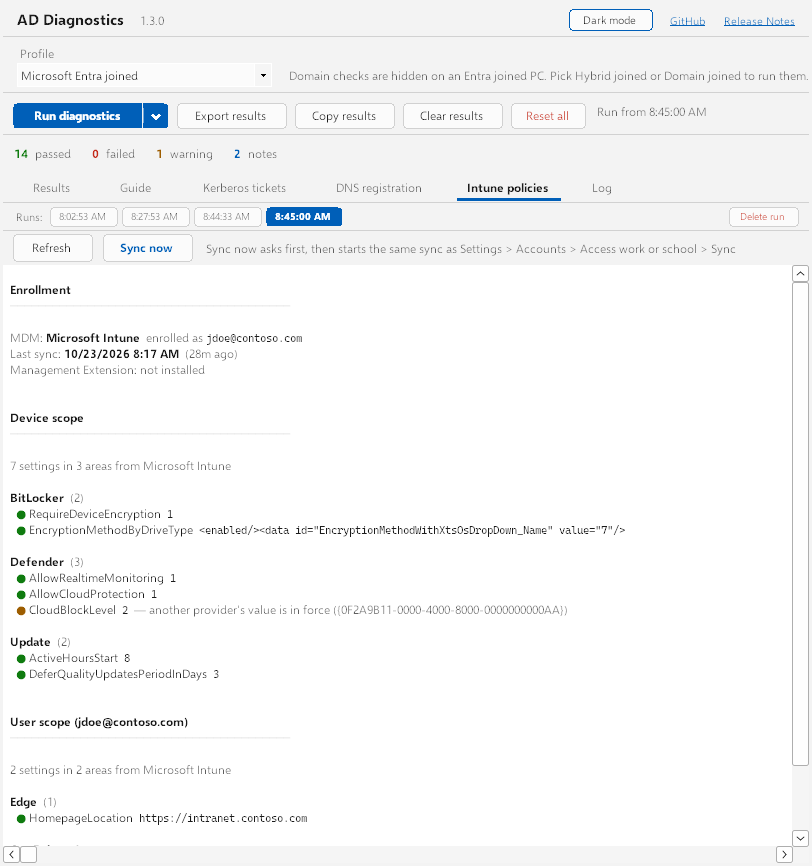
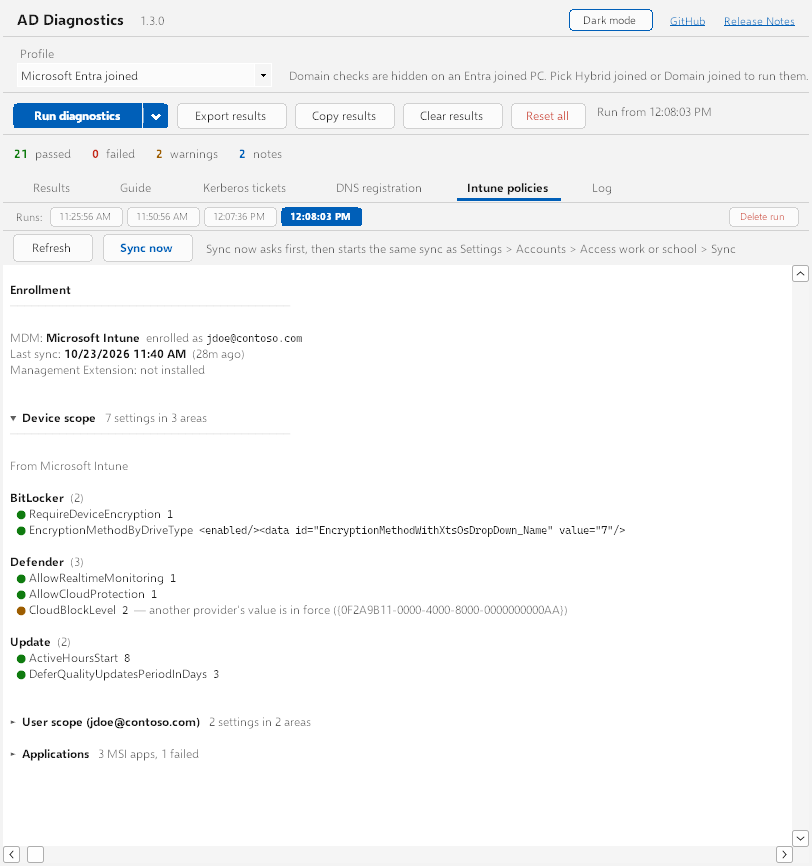
fix: fold Intune tab sections, count apps in Device Policies
Device scope, User scope and Applications start folded to their title
and count, like the Guide and Log. Device Policies counts the MSI apps
Settings lists beside the policy areas and warns when one failed.
Registering Adapters names the client adapter whose address isn't
registered, so it no longer reads as if the first adapter's were off.

Claude-Session: https://claude.ai/code/session_01StQ2E6eUGyYwvDP9ytbP5z

diff --git a/MainForm.cs b/MainForm.cs
@@ -109,6 +109,9 @@ class MainForm : Form
     // Intune policies tab
     Panel _intunePanel = null!;
     RichTextBox _intuneBox = null!;
+    readonly List<(int Start, int End, string Key)> _intuneHeadings = []; // where each folding section's title sits
+    readonly HashSet<string> _intuneOpen = [];          // the sections the reader opened; all start folded
+    IntuneState? _intuneState;                          // what the tab shows, redrawn when a section folds
     ThemedButton _btnIntuneSync = null!;
     Label _lblIntuneNote = null!;
     bool _intuneRunning, _intuneLoaded;
@@ -524,6 +527,20 @@ class MainForm : Form
             Font = new Font("Segoe UI", 9.5f),
             ScrollBars = RichTextBoxScrollBars.ForcedVertical,
             DetectUrls = false, // policy values are text to read, not links
+        };
+        _intuneBox.MouseClick += (s, e) =>
+        {
+            if (e.Button == MouseButtons.Left && IntuneHeadingAt(_intuneBox.GetCharIndexFromPosition(e.Location)) is { } key) ToggleIntuneSection(key);
+        };
+        _intuneBox.MouseMove += (s, e) =>
+            _intuneBox.Cursor = IntuneHeadingAt(_intuneBox.GetCharIndexFromPosition(e.Location)) != null ? Cursors.Hand : Cursors.IBeam;
+        _intuneBox.KeyDown += (s, e) =>
+        {
+            if (e.KeyCode is Keys.Enter or Keys.Space && IntuneHeadingAt(_intuneBox.SelectionStart) is { } key)
+            {
+                ToggleIntuneSection(key);
+                e.Handled = e.SuppressKeyPress = true;
+            }
         };
         var btnIntuneRefresh = new ThemedButton { Text = "Refresh", BackColor = SurfaceColor, ForeColor = TextColor, FlatStyle = FlatStyle.Flat, Font = new Font("Segoe UI", 9f), Size = new Size(80, 28), Location = new Point(10, 3) };
         btnIntuneRefresh.Click += (s, e) => RefreshIntuneTab();
@@ -1227,7 +1244,7 @@ class MainForm : Form
                 "  Fix: Click Sync now on the Intune policies tab, or Sync in Settings > Accounts > Access work or school > Info. If it fails, read the DeviceManagement-Enterprise-Diagnostics-Provider log, and check that the PC reaches *.manage.microsoft.com without TLS inspection\n\n" +
                 "• Management Extension — the Intune Management Extension service, which installs Win32 apps and runs scripts and remediations. Not installed is Info: Intune adds it with the first such assignment\n" +
                 "  Fix: If it is stopped, start the 'Microsoft Intune Management Extension' service. If it won't stay running, read its logs in C:\\ProgramData\\Microsoft\\IntuneManagementExtension\\Logs\n\n" +
-                "• Device Policies — how many settings Intune pushed to the device are in force; a setting another provider (another MDM, a provisioning package) sets instead is counted separately\n" +
+                "• Device Policies — how many settings Intune pushed to the device are in force, and how many MSI apps it pushed; a setting another provider (another MDM, a provisioning package) sets instead is counted separately, and an app that failed to download or install warns\n" +
                 "  Fix: None arriving: check the device's and user's group assignments in the Intune admin center, then sync"),
         };
 
@@ -1480,6 +1497,8 @@ class MainForm : Form
         _intuneRunning = _intuneLoaded = true;
         DiagLog.Block = new LogBlock($"Intune policies {Clock(DateTime.Now)}", "MDM enrollment and policy settings from the registry");
         _intuneBox.Clear();
+        _intuneHeadings.Clear();
+        _intuneState = null;
         AppendIntuneLine("Loading Intune details...\n", DimColor);
 
         (MdmEnrollment? Enrollment, IntuneState? State, string? Error) read;
@@ -1526,8 +1545,41 @@ class MainForm : Form
         AppendIntuneLine("  ────────────────────────────────────────\n\n", BorderColor);
     }
 
+    // A section that folds to its title and summary, chevron down when open and right when folded; true when open
+    bool IntuneFoldSection(string key, string title, string summary)
+    {
+        bool open = _intuneOpen.Contains(key);
+        int start = _intuneBox.TextLength;
+        AppendIntuneLine("  ", TextColor);
+        AppendIntuneLine(open ? "\u25BC " : "\u25BA ", DimColor, mono: true);
+        AppendIntuneLine(title, TextColor, bold: true);
+        AppendIntuneLine($"   {summary}", DimColor);
+        _intuneHeadings.Add((start, _intuneBox.TextLength, key));
+        AppendIntuneLine(open ? "\n  ────────────────────────────────────────\n\n" : "\n\n", open ? BorderColor : TextColor);
+        return open;
+    }
+
+    string? IntuneHeadingAt(int charIndex) =>
+        _intuneHeadings.FirstOrDefault(h => charIndex >= h.Start && charIndex <= h.End).Key;
+
+    // Folds or opens a section and keeps its title where it was on screen
+    void ToggleIntuneSection(string key)
+    {
+        if (_intuneState is not { } state) return;
+        if (!_intuneOpen.Remove(key)) _intuneOpen.Add(key);
+        int top = _intuneBox.GetLineFromCharIndex(_intuneBox.GetCharIndexFromPosition(new Point(1, 1)));
+        _intuneBox.Clear();
+        RenderIntune(state);
+        _intuneBox.SelectionStart = _intuneHeadings.FirstOrDefault(h => h.Key == key).Start;
+        _intuneBox.SelectionLength = 0;
+        int now = _intuneBox.GetLineFromCharIndex(_intuneBox.GetCharIndexFromPosition(new Point(1, 1)));
+        if (top != now) SendMessage(_intuneBox.Handle, EmLineScroll, IntPtr.Zero, top - now);
+    }
+
     void RenderIntune(IntuneState s)
     {
+        _intuneState = s;
+        _intuneHeadings.Clear();
         RenderIntuneEnrollment(s);
         var e = s.Enrollment;
         if (s.PolicyError != null)
@@ -1537,8 +1589,8 @@ class MainForm : Form
         }
         else
         {
-            RenderIntuneScope("Device scope", s.Device, e.ProviderName);
-            RenderIntuneScope(e.Upn is { Length: > 0 } user ? $"User scope ({user})" : "User scope", s.User, e.ProviderName);
+            RenderIntuneScope("device", "Device scope", s.Device, e.ProviderName);
+            RenderIntuneScope("user", e.Upn is { Length: > 0 } user ? $"User scope ({user})" : "User scope", s.User, e.ProviderName);
         }
         RenderIntuneApps(s, e.ProviderName);
     }
@@ -1546,18 +1598,17 @@ class MainForm : Form
     // The MSI apps the MDM pushed, as Settings > Access work or school > Info lists them under Applications
     void RenderIntuneApps(IntuneState s, string provider)
     {
-        IntuneSection("Applications");
         if (s.AppsError != null)
         {
+            IntuneSection("Applications");
             AppendIntuneLine($"  Not read: {s.AppsError}\n", WarnColor);
             return;
         }
-        if (s.Apps.Count == 0)
-        {
-            AppendIntuneLine($"    No MSI apps from {provider}\n", DimColor);
-            return;
-        }
-        AppendIntuneLine($"  {s.Apps.Count} MSI app{(s.Apps.Count == 1 ? "" : "s")} from {provider}\n\n", DimColor);
+        int failed = s.Apps.Count(a => Diagnostics.MsiStatus(a.Status).Look == Status.Fail);
+        string summary = s.Apps.Count == 0 ? $"no MSI apps from {provider}"
+            : $"{s.Apps.Count} MSI app{(s.Apps.Count == 1 ? "" : "s")}{(failed > 0 ? $", {failed} failed" : "")}";
+        if (!IntuneFoldSection("apps", "Applications", summary) || s.Apps.Count == 0) return;
+        AppendIntuneLine($"  From {provider}\n\n", DimColor);
         foreach (var app in s.Apps)
         {
             var (text, look) = Diagnostics.MsiStatus(app.Status);
@@ -1632,16 +1683,13 @@ class MainForm : Form
             var other => ($"state {other}", TextColor),
         };
 
-    void RenderIntuneScope(string title, List<MdmSetting> settings, string provider)
+    void RenderIntuneScope(string key, string title, List<MdmSetting> settings, string provider)
     {
-        IntuneSection(title);
-        if (settings.Count == 0)
-        {
-            AppendIntuneLine($"    None from {provider}\n\n\n", DimColor);
-            return;
-        }
         var areas = settings.GroupBy(x => x.Area).ToList();
-        AppendIntuneLine($"  {settings.Count} setting{(settings.Count == 1 ? "" : "s")} in {areas.Count} area{(areas.Count == 1 ? "" : "s")} from {provider}\n", DimColor);
+        string summary = settings.Count == 0 ? $"none from {provider}"
+            : $"{settings.Count} setting{(settings.Count == 1 ? "" : "s")} in {areas.Count} area{(areas.Count == 1 ? "" : "s")}";
+        if (!IntuneFoldSection(key, title, summary) || settings.Count == 0) return;
+        AppendIntuneLine($"  From {provider}\n", DimColor);
         foreach (var area in areas)
         {
             AppendIntuneLine($"\n  {area.Key}", TextColor, bold: true);

diff --git a/Intune.cs b/Intune.cs
@@ -97,16 +97,25 @@ static partial class Diagnostics
     {
         if (s.PolicyError is { } error)
             return new(MdmPoliciesCheck, Status.Skip, $"Not checked: {error}") { NeedsAdmin = true };
+        string apps = AppsSummary(s);
+        var failed = s.Apps.Where(a => MsiStatus(a.Status).Look == Status.Fail).ToList();
+        string failures = failed.Count == 0 ? ""
+            : $"; failed: {string.Join(", ", failed.Select(a => $"{a.Name ?? a.ProductCode} ({MsiStatus(a.Status).Text.ToLowerInvariant()})"))}";
         var won = s.Device.Where(p => p.ProviderWins).ToList();
         if (s.Device.Count == 0)
-            return new(MdmPoliciesCheck, Status.Info, "No device settings from Intune yet");
+            return new(MdmPoliciesCheck, failed.Count > 0 ? Status.Warn : Status.Info, $"No device settings from Intune yet{apps}{failures}");
 
         var areas = won.Select(p => p.Area).Distinct().ToList();
         string list = areas.Count == 0 ? "" : $" ({string.Join(", ", areas.Take(3))}{(areas.Count > 3 ? ", ..." : "")})";
         int lost = s.Device.Count - won.Count;
         string overridden = lost > 0 ? $"; {lost} set by another provider instead" : "";
-        return new(MdmPoliciesCheck, Status.Pass, $"{won.Count} setting{(won.Count == 1 ? "" : "s")} from {s.Enrollment.ProviderName} in {areas.Count} area{(areas.Count == 1 ? "" : "s")}{list}{overridden}");
+        return new(MdmPoliciesCheck, failed.Count > 0 ? Status.Warn : Status.Pass,
+            $"{won.Count} setting{(won.Count == 1 ? "" : "s")} from {s.Enrollment.ProviderName} in {areas.Count} area{(areas.Count == 1 ? "" : "s")}{list}{overridden}{apps}{failures}");
     }
+
+    // The MSI apps, as Settings counts them beside the policy areas; empty when there are none or they weren't read
+    static string AppsSummary(IntuneState s) =>
+        s.AppsError != null ? "; apps not read" : s.Apps.Count == 0 ? "" : $"; {s.Apps.Count} MSI app{(s.Apps.Count == 1 ? "" : "s")}";
 
     /// <summary>
     /// The MDM enrollment Windows keeps under HKLM\SOFTWARE\Microsoft\Enrollments, preferring a completed Intune one;

diff --git a/DnsRegistration.cs b/DnsRegistration.cs
@@ -131,8 +131,10 @@ static partial class Diagnostics
 
     // Routable addresses on a client's adapter that Windows will not put in DNS, as that adapter has registration off
     static IPAddress[] UnregisteredClientAddresses(List<NetAdapter> adapters, string? tag) =>
-        ClientAdapters(adapters, tag).Where(c => !c.Adapter.RegistersInDns)
-            .SelectMany(c => c.Adapter.Addresses).Where(a => IsRegistrable(a) && !IsCgnat(a)).Distinct().ToArray();
+        UnregisteredClients(adapters, tag).SelectMany(a => a.Addresses).Where(a => IsRegistrable(a) && !IsCgnat(a)).Distinct().ToArray();
+
+    static List<NetAdapter> UnregisteredClients(List<NetAdapter> adapters, string? tag) =>
+        ClientAdapters(adapters, tag).Where(c => !c.Adapter.RegistersInDns).Select(c => c.Adapter).ToList();
 
     // The addresses this machine would register: those of connected adapters with DNS registration on
     static IPAddress[] RegisteringAddresses(List<NetAdapter> adapters) =>
@@ -357,8 +359,11 @@ static partial class Diagnostics
         if (ztna == null)
             return new(RegAdapters, Status.Pass, list);
         if (UnregisteredClientAddresses(adapters, tag) is { Length: > 0 } unregistered)
-            return new(RegAdapters, Status.Pass, $"{list} — the client's own address ({Join(unregistered)}) is not registered, because "
-                + "registration is off on its adapter; if servers reach this machine through the client, that is the address DNS should hold");
+        {
+            string names = string.Join(", ", UnregisteredClients(adapters, tag).Select(a => a.Name));
+            return new(RegAdapters, Status.Pass, $"{list}. Not registered: {names} ({Join(unregistered)}), the client's own adapter, "
+                + "where registration is off; if servers reach this machine through the client, that is the address DNS should hold");
+        }
         return new(RegAdapters, Status.Pass, list
             + " — behind the ZTNA client this is the local network's address, which servers cannot use to reach this machine");
     }

diff --git a/tests/AdDiag.Tests/DnsRegistrationTests.cs b/tests/AdDiag.Tests/DnsRegistrationTests.cs
@@ -187,7 +187,7 @@ public class DnsRegistrationTests
         probe.NetAdapters.Add(new("Acme Access", "Acme Access Virtual Adapter", false, false, [IPAddress.Parse("172.16.50.3")], [], Virtual: true));
         var group = Run(probe);
         Assert.Equal(Status.Pass, StatusOf(group, "Registering Adapters"));
-        Assert.Contains("the client's own address (172.16.50.3) is not registered", DetailOf(group, "Registering Adapters"));
+        Assert.Contains("Not registered: Acme Access (172.16.50.3), the client's own adapter", DetailOf(group, "Registering Adapters"));
     }
 
     [Fact]

diff --git a/tests/AdDiag.Tests/IntuneTests.cs b/tests/AdDiag.Tests/IntuneTests.cs
@@ -245,6 +245,14 @@ public class IntuneTests
         Assert.Null(state.PolicyError);
     }
 
+    [Fact]
+    public void Policies_CountTheAppsAndWarnOnAFailedInstall()
+    {
+        var policies = Entry(Diagnostics.TestIntune(WithApps(), Now, TimeZoneInfo.Utc), "Device Policies");
+        Assert.Equal("Warn", policies.Status.ToString());
+        Assert.EndsWith("; 3 MSI apps; failed: Contoso VPN Client (install failed)", policies.Detail);
+    }
+
     [Theory]
     [InlineData(70, "Pass")]
     [InlineData(60, "Fail")]

diff --git a/tools/screenshots/Shots.cs b/tools/screenshots/Shots.cs
@@ -165,6 +165,7 @@ static class Shots
         var intune = Get<RichTextBox>(form, "_intuneBox");
         intune.Clear();
         Call(form, "AppendIntuneLine", "\n", Theme("TextColor"), false, false);
+        Get<HashSet<string>>(form, "_intuneOpen").Add("device"); // one section open, the others folded
         Call(form, "RenderIntune", MockIntune(DateTime.UtcNow));
         Get<Control>(form, "_btnIntuneSync").Enabled = true;
         intune.SelectionStart = 0; intune.ScrollToCaret();

diff --git a/README.md b/README.md
@@ -252,7 +252,7 @@ Whether this PC is managed by Microsoft Intune (or another MDM), on every profil
 - **MDM Enrollment** — enrolled, the MDM and the account that enrolled the PC; an enrollment that isn't complete warns. Not enrolled is Info, and the other checks aren't shown. Only an enrollment with an MDM server counts: Windows' own entries there (Local, Deploy and Cloud Authority) and the ConfigMgr bridge are on PCs that aren't in Intune too
 - **Last Sync** — the last successful sync with Intune. A PC that is on syncs about every 8 hours, so over a week warns; a failed attempt since the last success is a note (the next sync retries it)
 - **Management Extension** — the Intune Management Extension service, which installs Win32 apps and runs scripts; stopped warns, not installed is Info (Intune adds it with the first such assignment)
-- **Device Policies** — how many settings Intune pushed to the device are in force, and how many another provider sets instead
+- **Device Policies** — how many settings Intune pushed to the device are in force, how many another provider sets instead, and how many MSI apps Intune pushed (the Applications Settings lists). An app whose download or install failed warns, naming it
 
 Reading the sync times or policy settings may need Run as Administrator; without it those checks show as not checked.
 
@@ -308,7 +308,7 @@ Every step is also written to the log.
 
 ![Intune policies tab with the enrollment, device and user settings](docs/screenshots/intune-policies.png)
 
-Every setting and MSI app Intune pushed, read from the MDM client's `PolicyManager` and `EnterpriseDesktopAppManagement` keys:
+Every setting and MSI app Intune pushed, read from the MDM client's `PolicyManager` and `EnterpriseDesktopAppManagement` keys. **Device scope**, **User scope** and **Applications** start folded to their title and count; click one (or press Enter) to open it:
 
 - **Enrollment** — the MDM and the account that enrolled the PC, the last successful sync (and a failed attempt since), and the Management Extension's state
 - **Device scope** and **User scope** — each setting by area, with its value. A green dot is the value in force; an amber dot is a setting another provider (another MDM, a provisioning package) sets instead, with that provider's id
